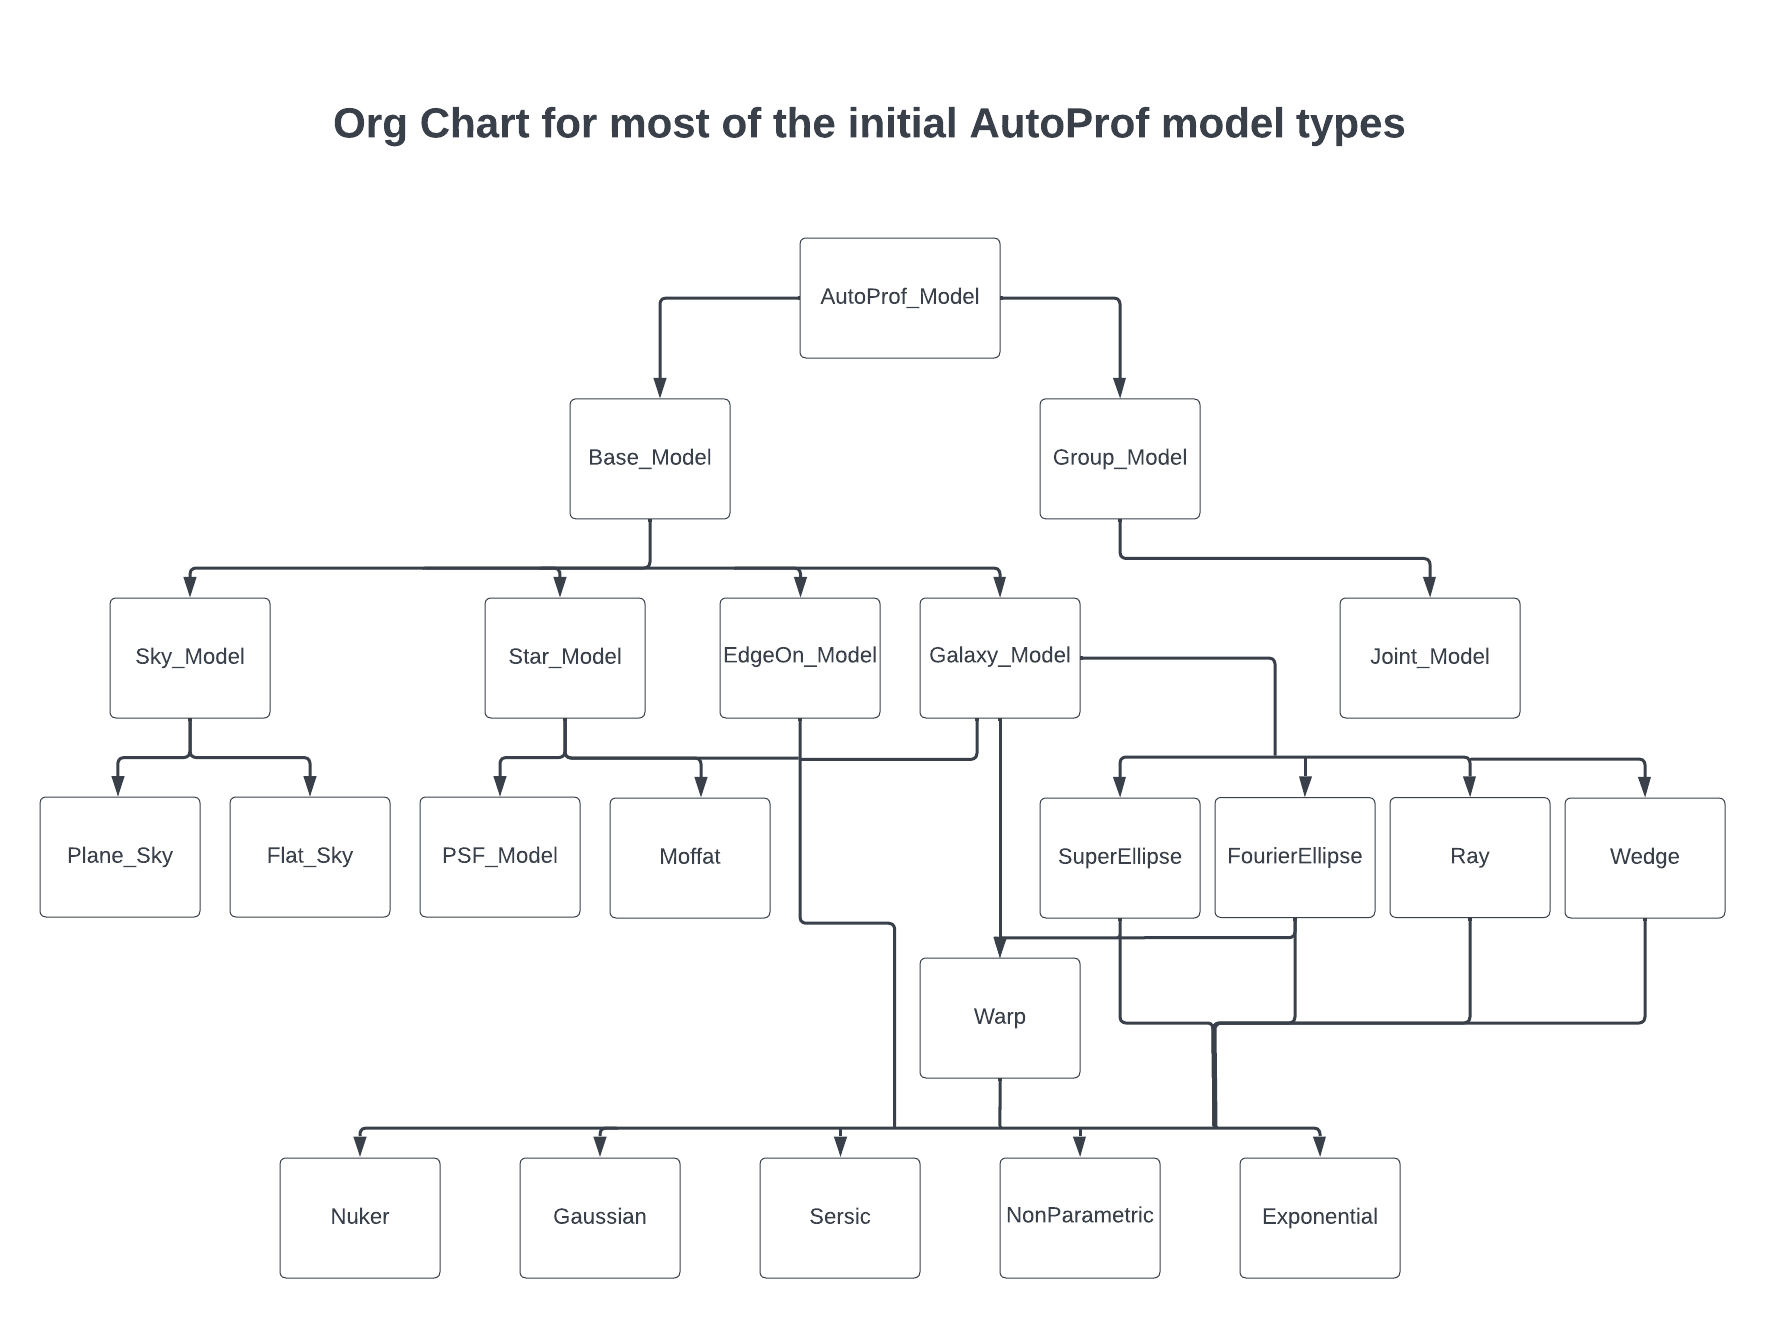
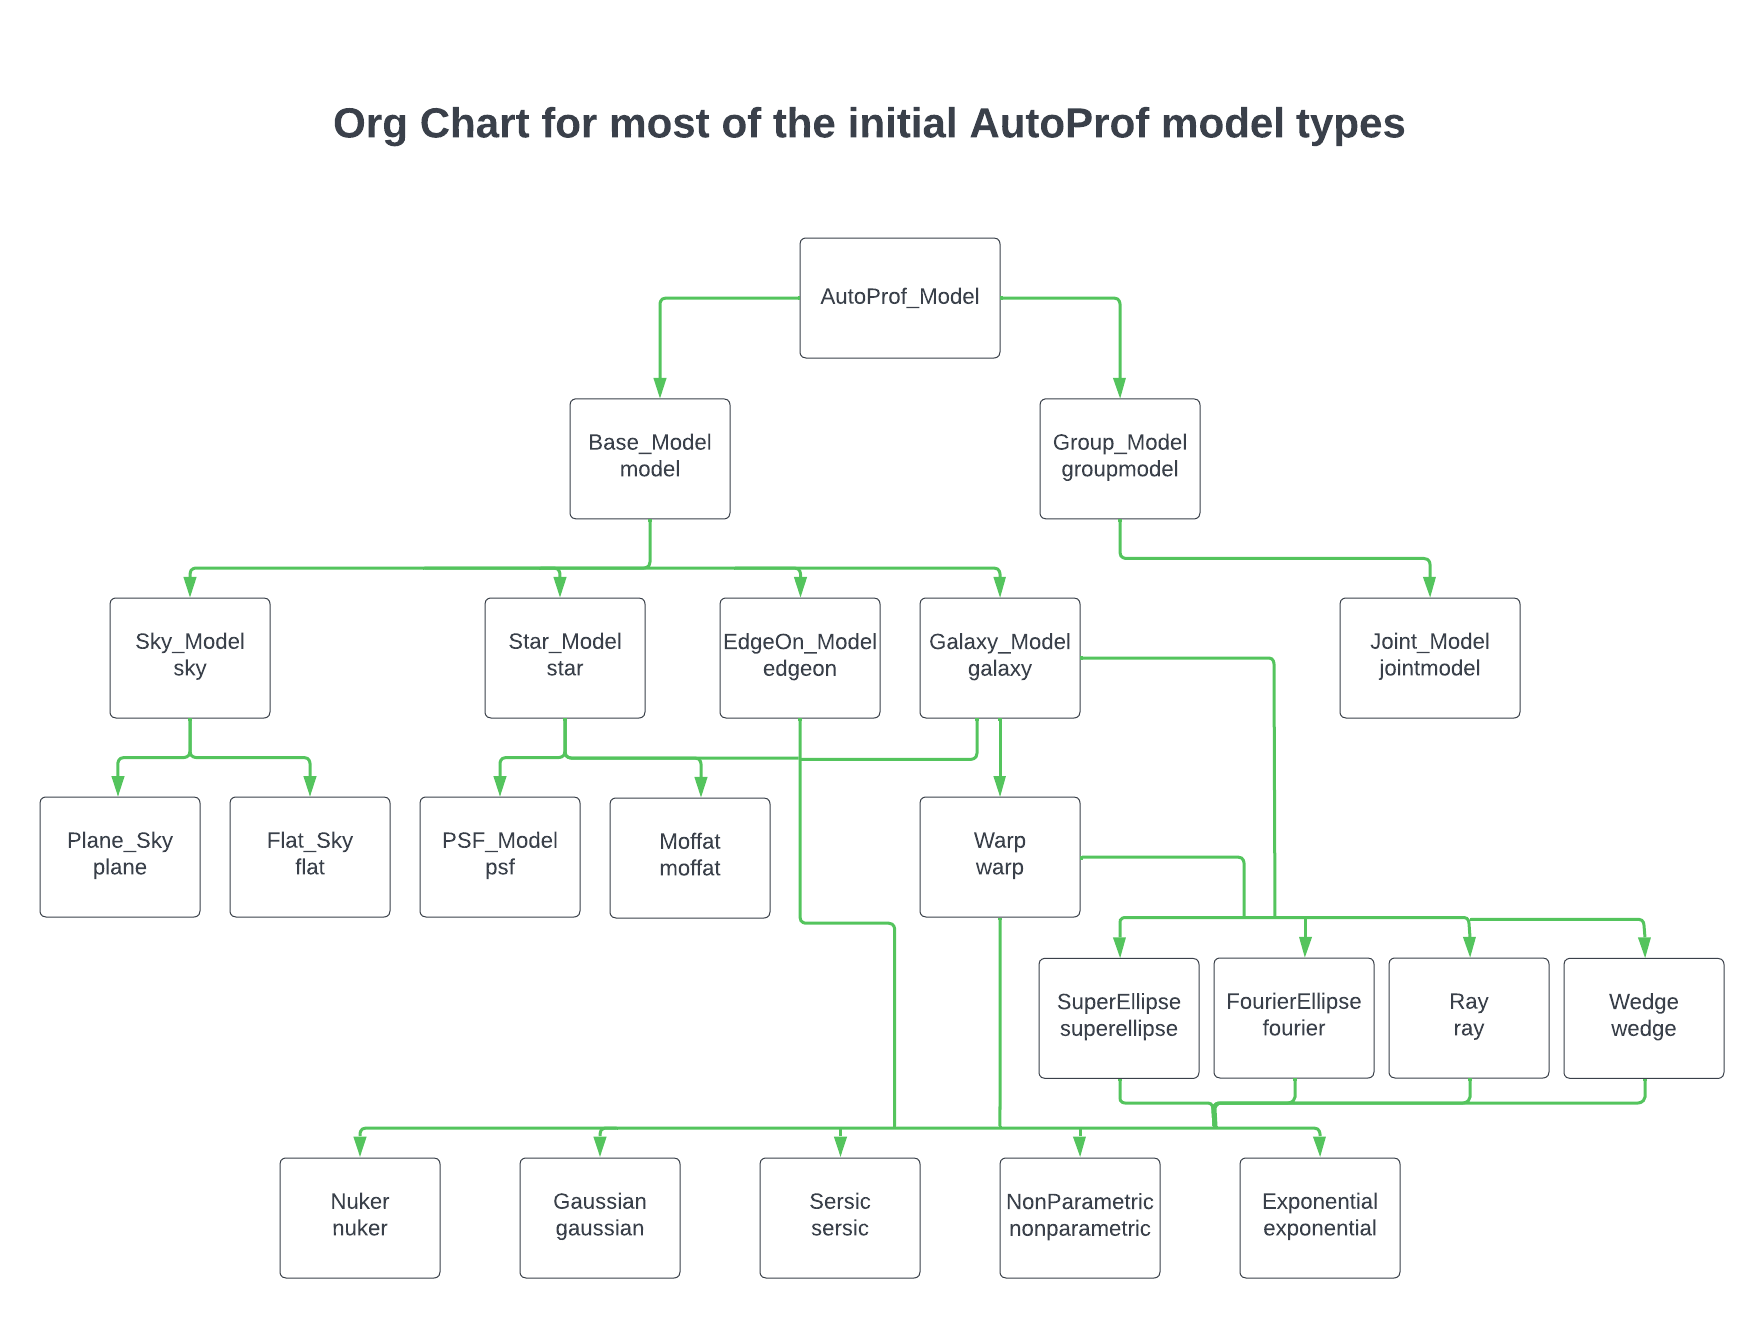
adjustments to org chart

diff --git a/README.md b/README.md
@@ -36,7 +36,7 @@ Further documentation is in development. In the meantime you can contact the aut
 
 ## Model Org Chart
 
-As a quick reference for what kinds of models are available in AutoProf, the org chart shows you the class hierarchy where the leaf nodes at the bottom are the models that can actually be used. Following different paths through the hierarchy gives models with different properties. For example one could follow a fairly direct path to get a `sersic galaxy model`, or a more complex path to get a `sersic fourier warp model`.
+As a quick reference for what kinds of models are available in AutoProf, the org chart shows you the class hierarchy where the leaf nodes at the bottom are the models that can actually be used. Following different paths through the hierarchy gives models with different properties. For example one could follow a fairly direct path to get a `sersic galaxy model`, or a more complex path to get a `sersic fourier warp galaxy model`.
 
 <img src="media/AutoProfModelOrgchart.png" alt="AutoProf model Orgchart"/>
 
